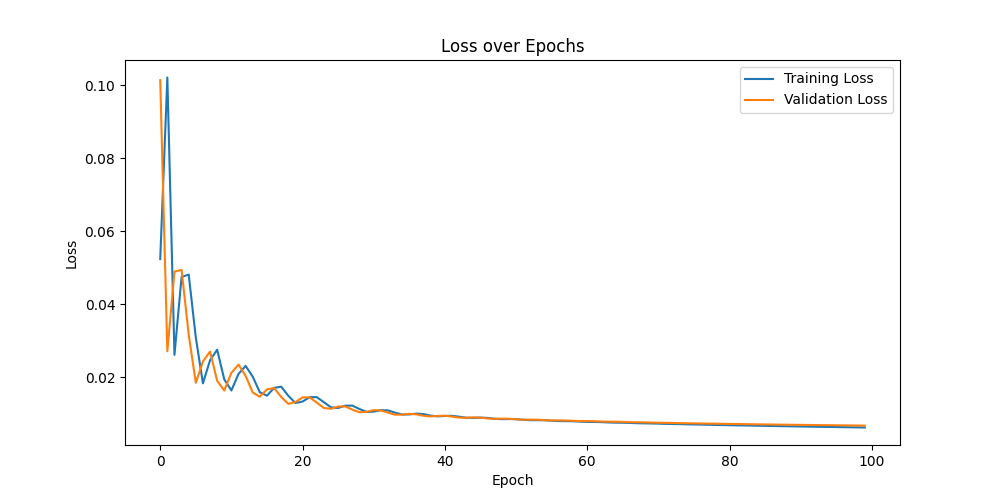
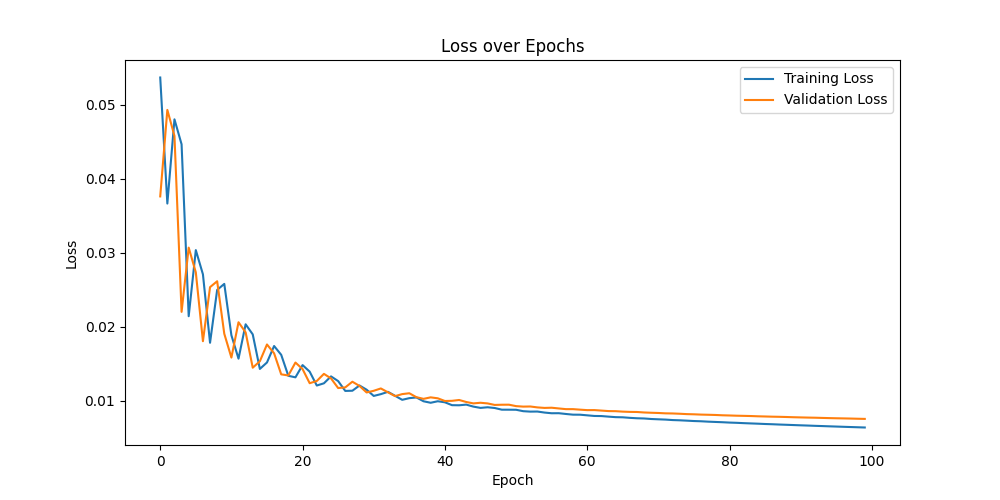
TEST gpt2 embeddings with Wikipedia descriptions

diff --git a/strucutural-probe/src/utils.py b/strucutural-probe/src/utils.py
@@ -80,7 +80,7 @@ class UtilityFunctions:
         plt.ylabel('Loss')
         plt.title('Loss over Epochs')
         plt.legend()
-        plt.savefig('./../resources/plots/full_dim/loss.png')
+        plt.savefig('./../resources/plots/wiki_desc/full_dim/loss.png')
 
     @staticmethod
     def plot_pearson_correlations(train_corrs: list, val_corrs: list) -> None:
@@ -91,7 +91,7 @@ class UtilityFunctions:
         plt.ylabel('Pearson Correlation')
         plt.title('Pearson Correlation over Epochs')
         plt.legend()
-        plt.savefig('./../resources/plots/full_dim/pearson_correlation.png')
+        plt.savefig('./../resources/plots/wiki_desc/full_dim/pearson_correlation.png')
     
     @staticmethod
     def plot_all_losses(all_train_losses: dict, all_val_losses: dict) -> None:
@@ -104,7 +104,7 @@ class UtilityFunctions:
         plt.ylabel('Loss')
         plt.title('Loss over Epochs by Output Dimension')
         plt.legend()
-        plt.savefig('./../resources/plots/reduced_dim/all_losses.png')
+        plt.savefig('./../resources/plots/wiki_desc/reduced_dim/all_losses.png')
     
     @staticmethod
     def plot_all_pearson_correlations(all_train_corrs: dict, all_val_corrs: dict) -> None:
@@ -117,4 +117,4 @@ class UtilityFunctions:
         plt.ylabel('Pearson Correlation')
         plt.title('Pearson Correlation over Epochs by Output Dimension')
         plt.legend()
-        plt.savefig('./../resources/plots/reduced_dim/all_pearson_correlations.png')
+        plt.savefig('./../resources/plots/wiki_desc/reduced_dim/all_pearson_correlations.png')

diff --git a/strucutural-probe/src/config.py b/strucutural-probe/src/config.py
@@ -1,5 +1,5 @@
 config = {
-    'model_name': 'bert-base-uncased', # bert-base-uncased, openai-community/gpt2, facebook/bart-base
+    'model_name': 'openai-community/gpt2', # bert-base-uncased, openai-community/gpt2, facebook/bart-base
     'embedding_dim': 768,
     'hidden_dim': 512,
     'rbf_features': 100,
@@ -18,12 +18,12 @@ config = {
     'data_paths': {
         'train_data': './../../data/dataset/wikidata5m_42k_desc_train.csv',
         'val_data': './../../data/dataset/wikidata5m_42k_desc_valid.csv',
-        'train_embeddings': './../../data/embeddings/wikidata5m_42k_desc_train_embeddings_bert_cls.pt',
-        'val_embeddings': './../../data/embeddings/wikidata5m_42k_desc_valid_embeddings_bert_cls.pt',
+        'train_embeddings': './../../data/embeddings/wikidata5m_42k_desc_train_embeddings_gpt2.pt',
+        'val_embeddings': './../../data/embeddings/wikidata5m_42k_desc_valid_embeddings_gpt2.pt',
     },
     'model_paths': {
-        'saved_model_full_dim': './../../trained_models/full_dim/best_model.pth',
-        'saved_model_reduced_dim': './../../trained_models/reduced_dim/best_model',
+        'saved_model_full_dim': './../../trained_models/wiki_desc/full_dim/best_model.pth',
+        'saved_model_reduced_dim': './../../trained_models/wiki_desc/reduced_dim/best_model',
     },
 }
 

diff --git a/strucutural-probe/src/evaluate.py b/strucutural-probe/src/evaluate.py
@@ -31,7 +31,7 @@ class Evaluator:
         if 'orthogonal' in self.trained_model_path:
             loaded_transformation = checkpoint['model_class'](embedding_dim)
         else:
-            loaded_transformation = checkpoint['model_class'](embedding_dim, 512)
+            loaded_transformation = checkpoint['model_class'](embedding_dim, embedding_dim)
         loaded_transformation.load_state_dict(checkpoint['state_dict'])
         loaded_transformation.eval()
         return loaded_transformation
@@ -80,8 +80,8 @@ class Evaluator:
 if __name__ == "__main__":
 
     evaluator = Evaluator(
-        embeddings_path='./../../data/embeddings/wikidata5m_42k_test_embeddings_bart.pt',
+        embeddings_path='./../../data/embeddings/wikidata5m_42k_desc_test_embeddings_gpt2.pt',
         test_data_path='./../../data/dataset/wikidata5m_42k_test.csv',
-        trained_model_path='./../../trained_models/reduced_dim/bart/best_model_dim_512.pth'
+        trained_model_path='./../../trained_models/wiki_desc/full_dim/best_model.pth'
     )
     evaluator.run_evaluation()

diff --git a/strucutural-probe/src/dataload_with_descriptions.py b/strucutural-probe/src/dataload_with_descriptions.py
@@ -112,8 +112,8 @@ class DataOnDisk(DataPreparation):
 
 if __name__ == '__main__':
 
-    MODEL_NAME = 'bert-base-uncased'
-    SAVE_PATH = './../../data/embeddings/wikidata5m_42k_desc_train_embeddings_bert_cls.pt'
+    MODEL_NAME = 'openai-community/gpt2'
+    SAVE_PATH = './../../data/embeddings/wikidata5m_42k_desc_train_embeddings_gpt2.pt'
     train_data = pd.read_csv('./../../data/dataset/wikidata5m_42k_desc_train.csv')
     #val_data = pd.read_csv('./../../data/dataset/wikidata5m_42k_desc_valid.csv')
     #test_data = pd.read_csv('./../../data/dataset/wikidata5m_42k_desc_test.csv')
@@ -127,6 +127,6 @@ if __name__ == '__main__':
         print(normalized_embeddings[0])
 
     else:
-        bert_embeddings = BERTEmbeddingsWithCLS(MODEL_NAME)
-        data_prep = DataOnDisk(MODEL_NAME, bert_embeddings, SAVE_PATH)
+        embeddings = GPTEmbeddings(MODEL_NAME)
+        data_prep = DataOnDisk(MODEL_NAME, embeddings, SAVE_PATH)
         normalized_embeddings, _ = data_prep.prepare_data_and_save(train_data)

diff --git a/strucutural-probe/src/train.py b/strucutural-probe/src/train.py
@@ -43,10 +43,10 @@ def load_or_generate_embeddings(
         return data_prep.prepare_data(pd.read_csv(data_path))
 
 def initialize_model(embedding_dim: int) -> Tuple[nn.Module, nn.Module, optim.Optimizer, optim.lr_scheduler._LRScheduler]:
-    model = LinearTransformation(embedding_dim, embedding_dim) # choose the model here
+    model = LinearTransformation(embedding_dim, embedding_dim)
     #model = OrthogonalLayer(embedding_dim)
     loss_function = nn.MSELoss()
-    optimizer = optim.AdamW(model.parameters(), lr=0.001, weight_decay=0.005)
+    optimizer = optim.AdamW(model.parameters(), lr=0.004, weight_decay=0.005)
     scheduler = ReduceLROnPlateau(optimizer, mode='min', factor=0.1, patience=5)
     return model, loss_function, optimizer, scheduler
 
